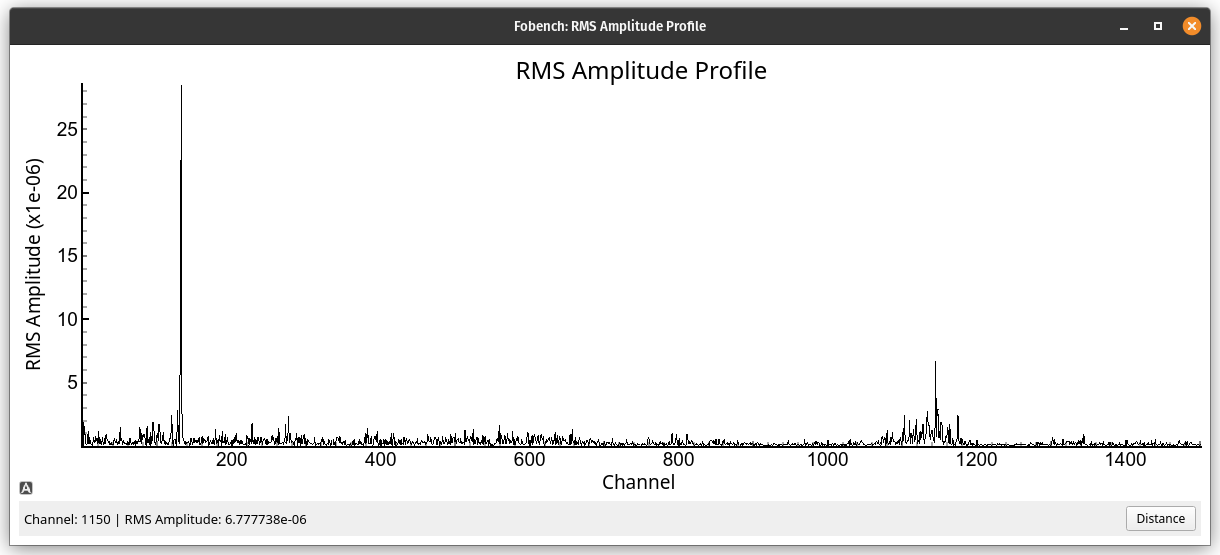
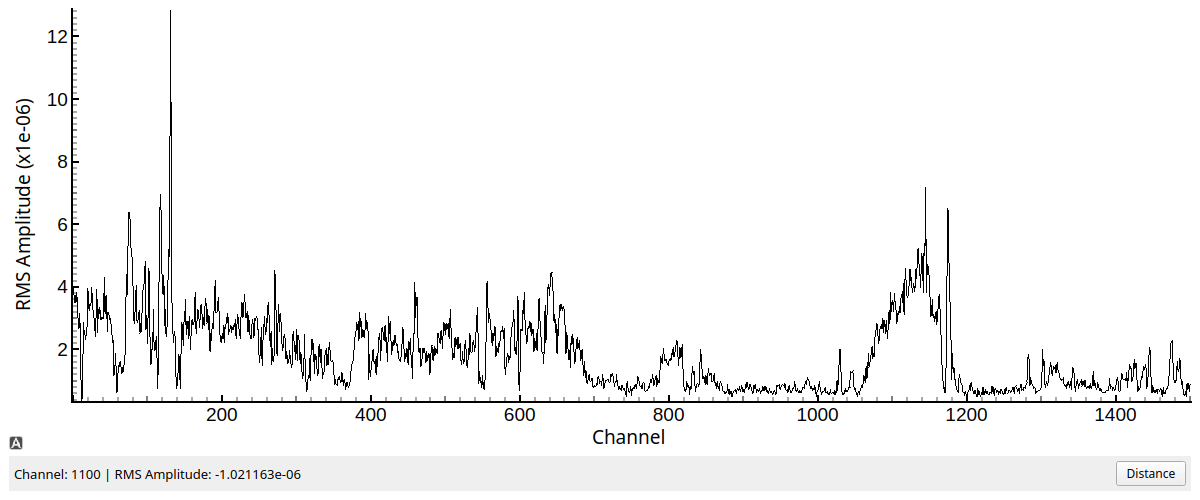
Removes double titles when plotting

Changed region(s): [[0.0, 0.0, 1.0, 1.0], [0.74, 0.51, 0.8017, 0.66], [0.7092, 0.63, 0.74, 0.69]]

diff --git a/fobench/core/plotting/plotting_pyqt.py b/fobench/core/plotting/plotting_pyqt.py
@@ -57,7 +57,7 @@ def plot_timeseries(timestamps: np.ndarray, data: np.ndarray | list, dt: float,
     y_label : str, optional
         y-axis label.
     title : str, optional
-        Title of plot.
+        Window title.
     labels : list[str] | None
         Legend labels for each amplitude array. If None, no legend is shown.
 
@@ -117,7 +117,7 @@ def plot_record_section(timestamps: np.ndarray, data: np.ndarray, dt: float,
     y_label : str, optional
         y-axis label.
     title : str, optional
-        Title of plot.
+        Window title.
 
     Returns
     -------
@@ -172,7 +172,7 @@ def plot_distance(distances: np.ndarray, channels: np.ndarray, data: np.ndarray,
     x_label : str, optional
         x-axis label.
     title : str, optional
-        Title of plot.
+        Window title.
 
     Returns
     -------
@@ -237,7 +237,7 @@ def plot_spectral(frequencies: np.ndarray, amplitudes: np.ndarray,
     x_label : str, optional
         x-axis label.
     title : str, optional
-        Title of plot.
+        Window title.
     labels : list[str] | None, optional
         Legend labels for each spectrum. If ``None``, no legend is shown.
     Returns
@@ -298,7 +298,7 @@ def plot_2d_timeseries(timestamps: np.ndarray, data: np.ndarray, y_ticks: list,
     y_label : str, optional
         y-axis label.
     title : str, optional
-        Plot title.
+        Window title.
     cmap : str, optional
         Colourmap to be used.
     cbar_label : str, optional
@@ -404,7 +404,7 @@ def plot_2d_distance(distances: np.ndarray, channels: np.ndarray,
     distance_label : str, optional
         x-axis label when showing distances.
     title : str, optional
-        Title of plot.
+        Window title.
     cmap : str, optional
         Colourmap to use.
     cbar_label : str, optional
@@ -498,8 +498,7 @@ def get_layout(size: tuple = (1200, 600), win_title: str = None,
     win.setWindowIcon(QtGui.QIcon(str(Path(__file__).resolve().parent/"logo.png")))
     win.setBackground("w")
     win.resize(*size)
-    plot = win.addPlot(title=win_title)
-    plot.setTitle(win_title, size="18pt", color="k")
+    plot = win.addPlot()
 
     if x_is_time:
         plot.setAxisItems({"bottom": pg.DateAxisItem(utcOffset=1)})
@@ -763,7 +762,7 @@ def plot_dispersion(frequencies: np.ndarray, velocities: np.ndarray, image: np.n
     vmin, vmax : float
         Minimum and maximum limits of colourbar.
     title : str, optional
-        Title of plot.
+        Window title.
     cmap : str
         Colourmap to use.
     cbar_label : str, optional

diff --git a/fobench/core/tools/wavefield.py b/fobench/core/tools/wavefield.py
@@ -187,10 +187,10 @@ def rmsa(data: np.ndarray, axis: int, window: int, dim: str, times: np.ndarray,
         return np.array([np.sqrt(np.mean(window_data**2, axis=axis)) for window_data in data])
 
     data_length = len(times) if dim == "t" else len(channels)
-    window = data_length if window is None else window
-    if not 0 < window <= data_length:
-        raise ValueError(f"window must be > 0 and <= {data_length} samples, got {window}")
-    result = compute_rmsa(data, data_length, window, axis)
+    rmsa_window = data_length if window is None else window
+    if not 0 < rmsa_window <= data_length:
+        raise ValueError(f"window must be > 0 and <= {data_length} samples, got {rmsa_window}")
+    result = compute_rmsa(data, data_length, rmsa_window, axis)
 
     if plot_mode == "mpl":
         warn("⚠ matplotlib plotting not implemented for this method, "
